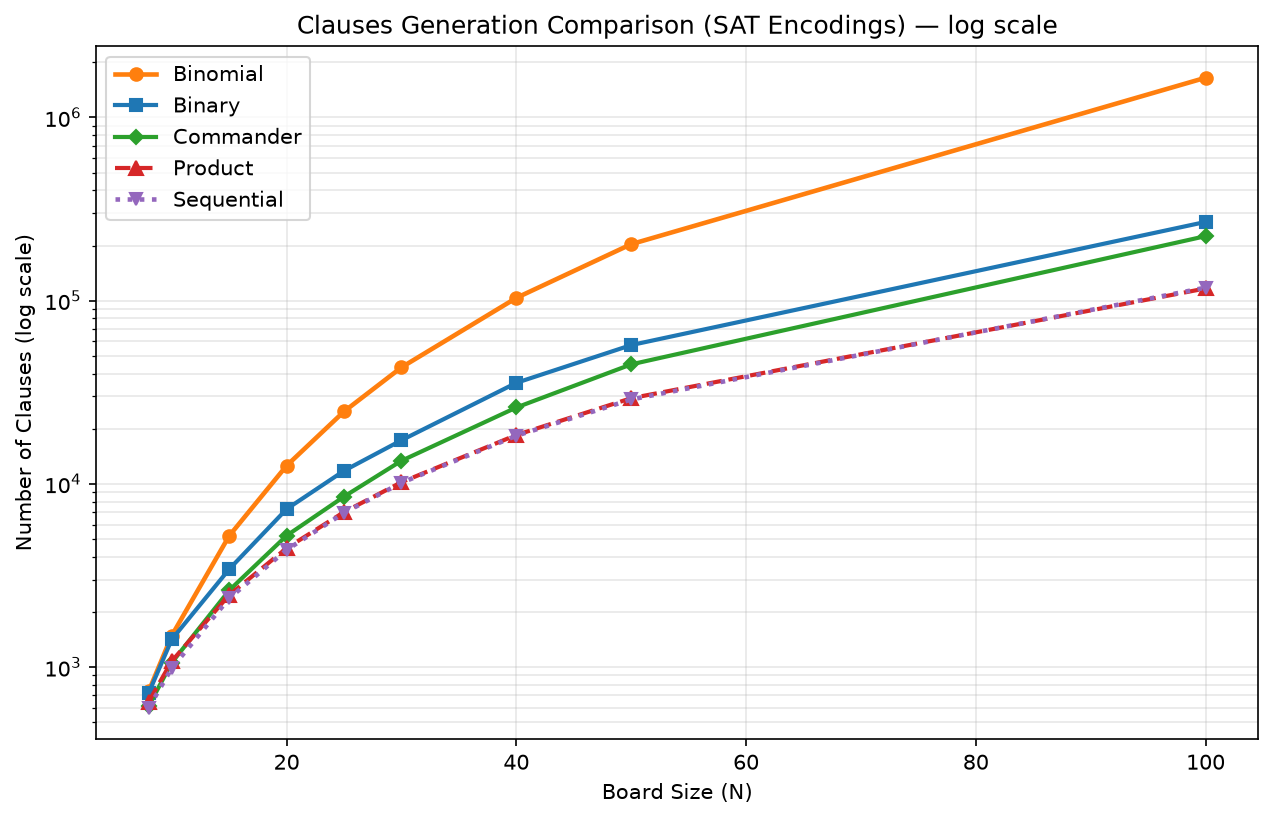
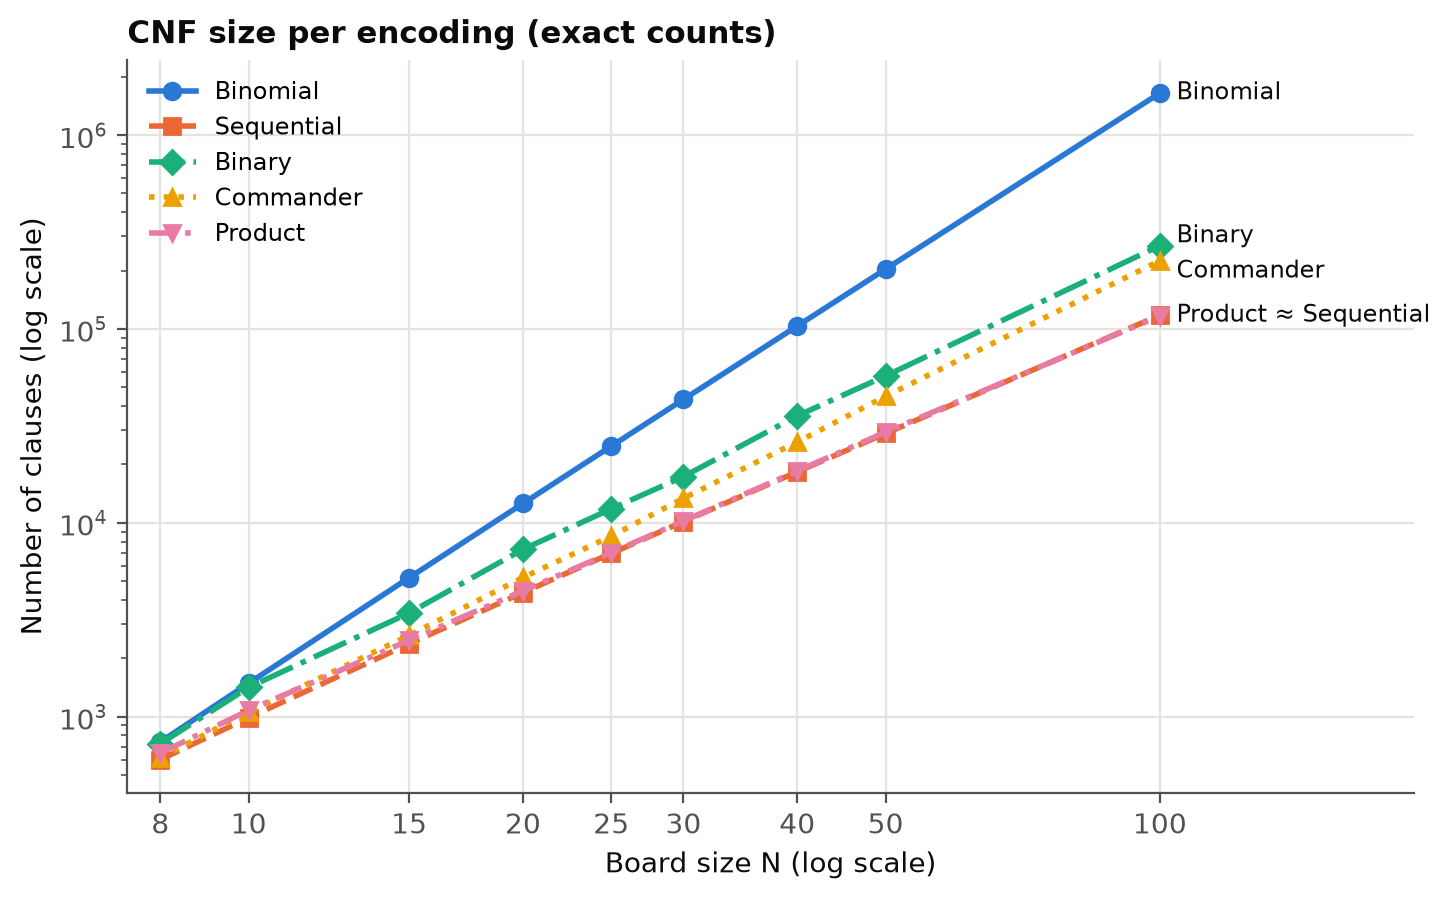
feat(charts): regenerate figures from CSV with per-method timeout markers and add ordering-sensitivity chart

diff --git a/src/plot_charts.py b/src/plot_charts.py
@@ -1,0 +1,208 @@
+import logging
+import os
+import sys
+
+import matplotlib
+matplotlib.use('Agg')
+import matplotlib.pyplot as plt
+import pandas as pd
+from matplotlib.lines import Line2D
+from matplotlib.ticker import FixedLocator, NullFormatter, NullLocator
+
+sys.path.insert(0, os.path.dirname(os.path.abspath(__file__)))
+from encoder import NQueensEncoder
+
+sys.stdout.reconfigure(encoding='utf-8')
+logging.getLogger('matplotlib.font_manager').setLevel(logging.ERROR)
+
+PROJECT_ROOT = os.path.dirname(os.path.dirname(os.path.abspath(__file__)))
+RESULTS_DIR = os.path.join(PROJECT_ROOT, 'results')
+
+RUNTIME_FILES = ['sat_vs_cp_benchmark.csv', 'benchmark_large_N.csv',
+                 'benchmark_large_N_50.csv', 'benchmark_extra_large_N.csv']
+SIZES = [8, 10, 15, 20, 25, 30, 40, 50, 100, 200]
+
+ENC_STYLE = {
+    'Binomial':   dict(color='#2a78d6', marker='o', ls='-'),
+    'Sequential': dict(color='#eb6834', marker='s', ls='--'),
+    'Binary':     dict(color='#1baf7a', marker='D', ls='-.'),
+    'Commander':  dict(color='#eda100', marker='^', ls=':'),
+    'Product':    dict(color='#e87ba4', marker='v', ls=(0, (5, 1.5, 1, 1.5, 1, 1.5))),
+}
+SOLVER_STYLE = {
+    'CP-SAT':     dict(color='#2a78d6', marker='o', ls='-'),
+    'CPLEX-CP':   dict(color='#eb6834', marker='s', ls='--'),
+    'CPLEX-MIP':  dict(color='#1baf7a', marker='D', ls='-.'),
+    'Gurobi-MIP': dict(color='#eda100', marker='^', ls=':'),
+}
+INK, INK_2, GRID = '#0b0b0b', '#52514e', '#e4e3df'
+
+plt.rcParams.update({
+    'font.size': 10, 'axes.edgecolor': INK_2, 'axes.labelcolor': INK, 'xtick.color': INK_2,
+    'ytick.color': INK_2, 'axes.titlesize': 11, 'axes.titleweight': 'bold',
+    'figure.facecolor': 'white', 'axes.facecolor': 'white', 'legend.frameon': False,
+})
+
+
+def _style_axes(ax, xticks=None):
+    ax.grid(True, which='major', color=GRID, lw=0.8)
+    ax.set_axisbelow(True)
+    for side in ('top', 'right'):
+        ax.spines[side].set_visible(False)
+    if xticks is not None:
+        ax.set_xscale('log')
+        ax.xaxis.set_major_locator(FixedLocator(xticks))
+        ax.xaxis.set_minor_locator(NullLocator())
+        ax.xaxis.set_minor_formatter(NullFormatter())
+        ax.set_xticklabels([str(x) for x in xticks])
+
+
+def load_runtime():
+    frames = []
+    for name in RUNTIME_FILES:
+        path = os.path.join(RESULTS_DIR, name)
+        if os.path.exists(path):
+            frames.append(pd.read_csv(path))
+    df = pd.concat(frames, ignore_index=True)
+    df['Error'] = df['Error'].fillna('').astype(str)
+    df['Is_SAT'] = df['Is_SAT'].astype(str).str.lower() == 'true'
+    df['Algorithm'] = df['Algorithm'].replace({'Gurobi-mip': 'Gurobi-MIP', 'gurobi-mip': 'Gurobi-MIP'})
+    return df.drop_duplicates(subset=['Board_Size', 'Algorithm'], keep='last')
+
+
+def plot_runtime(df):
+    fig, axes = plt.subplots(1, 2, figsize=(11, 4.6), sharey=True)
+    panels = [(axes[0], ENC_STYLE, 'SAT encodings (Glucose3, original variable order)'),
+              (axes[1], SOLVER_STYLE, 'CP and MIP solvers')]
+    for ax, styles, title in panels:
+        xmax = 2
+        timeouts = df[df['Algorithm'].isin(styles) & (df['Error'].str.upper() == 'TIMEOUT')]
+        for alg, st in styles.items():
+            sub = df[df['Algorithm'] == alg].sort_values('Board_Size')
+            ok = sub[(sub['Error'] == '') & sub['Is_SAT']]
+            if not ok.empty:
+                y = ok['Solve_Time(s)']
+                yerr = [y - ok['Solve_Min(s)'], ok['Solve_Max(s)'] - y]
+                ax.errorbar(ok['Board_Size'], y, yerr=yerr, color=st['color'], ls=st['ls'],
+                            marker=st['marker'], ms=6, lw=2, capsize=2.5, elinewidth=1,
+                            label=alg, zorder=3)
+                xmax = max(xmax, ok['Board_Size'].max())
+        for n, grp in timeouts.groupby('Board_Size'):
+            order = [a for a in styles if a in set(grp['Algorithm'])]
+            for j, alg in enumerate(order):
+                st = styles[alg]
+                row = grp[grp['Algorithm'] == alg].iloc[0]
+                shift = 1 + 0.045 * (j - (len(order) - 1) / 2)
+                ax.scatter([n * shift], [row['Solve_Time(s)']], marker=st['marker'], s=55,
+                           facecolors='white', edgecolors=st['color'], linewidths=1.8, zorder=4)
+            xmax = max(xmax, n)
+        ticks = [n for n in SIZES if n <= xmax]
+        _style_axes(ax, ticks)
+        ax.set_yscale('log')
+        ax.set_title(title, loc='left', color=INK)
+        ax.set_xlabel('Board size N (log scale)')
+    axes[0].set_ylabel('Solve time (s, log scale)')
+
+    for ax, styles in ((axes[0], ENC_STYLE), (axes[1], SOLVER_STYLE)):
+        handles, labels = ax.get_legend_handles_labels()
+        handles.append(Line2D([], [], ls='', marker='o', mfc='white', mec=INK_2, mew=1.6, ms=7))
+        labels.append('timed out (true time ≥ limit)')
+        ax.legend(handles, labels, loc='upper left', fontsize=8.5)
+    fig.tight_layout()
+    out = os.path.join(RESULTS_DIR, 'chart_runtime_comparison.png')
+    fig.savefig(out, dpi=200, bbox_inches='tight')
+    plt.close(fig)
+    return out
+
+
+def plot_clauses():
+    sizes = [n for n in SIZES if n <= 100]
+    counts = {enc: [len(NQueensEncoder(n).generate_clauses(enc.lower())[0]) for n in sizes]
+              for enc in ENC_STYLE}
+    fig, ax = plt.subplots(figsize=(7.5, 4.6))
+    for enc, st in ENC_STYLE.items():
+        ax.plot(sizes, counts[enc], color=st['color'], ls=st['ls'], marker=st['marker'],
+                ms=6, lw=2, label=enc, zorder=3)
+    _style_axes(ax, sizes)
+    ax.set_yscale('log')
+    ax.set_xlabel('Board size N (log scale)')
+    ax.set_ylabel('Number of clauses (log scale)')
+    ax.set_title('CNF size per encoding (exact counts)', loc='left', color=INK)
+    last = {enc: counts[enc][-1] for enc in ENC_STYLE}
+    labels = [('Binomial', last['Binomial']), ('Binary', last['Binary']),
+              ('Commander', last['Commander']),
+              ('Product ≈ Sequential', (last['Product'] * last['Sequential']) ** 0.5)]
+    nudge = {'Binary': 1.12, 'Commander': 0.88}
+    for text, y in labels:
+        ax.annotate(text, (sizes[-1], y * nudge.get(text, 1.0)), xytext=(6, 0),
+                    textcoords='offset points', va='center', fontsize=8.5, color=INK)
+    ax.set_xlim(sizes[0] * 0.92, sizes[-1] * 1.9)
+    ax.legend(loc='upper left', fontsize=8.5)
+    fig.tight_layout()
+    out = os.path.join(RESULTS_DIR, 'chart_clauses_comparison.png')
+    fig.savefig(out, dpi=200, bbox_inches='tight')
+    plt.close(fig)
+    return out
+
+
+def plot_ordering():
+    path = os.path.join(RESULTS_DIR, 'robustness_shuffle.csv')
+    if not os.path.exists(path):
+        return None
+    df = pd.read_csv(path)
+    sizes = sorted(df['Board_Size'].unique())
+    fig, axes = plt.subplots(1, len(sizes), figsize=(3.7 * len(sizes), 4.4), sharey=True, squeeze=False)
+    encs = list(ENC_STYLE)
+    for ax, n in zip(axes[0], sizes):
+        sub = df[df['Board_Size'] == n]
+        for i, enc in enumerate(encs):
+            st = ENC_STYLE[enc]
+            e = sub[sub['Encoding'] == enc].sort_values('Seed')
+            if e.empty:
+                continue
+            done = e[e['Status'] == 'SAT']
+            to = e[(e['Status'] == 'TIMEOUT') & (e['Seed'] != 0)]
+            shuf = done[done['Seed'] != 0]
+            jitter = [(j % 5 - 2) * 0.07 for j in range(len(shuf))]
+            ax.scatter([i + d for d in jitter], shuf['Solve_Time(s)'], s=22, color=st['color'],
+                       alpha=0.85, edgecolors='white', linewidths=0.6, zorder=3)
+            if not to.empty:
+                ax.scatter([i + 0.25] * len(to), to['Solve_Time(s)'], s=40, marker='^',
+                           facecolors='white', edgecolors=st['color'], linewidths=1.6, zorder=4)
+                ax.annotate(f'{len(to)}×', (i + 0.25, to['Solve_Time(s)'].iloc[0]), xytext=(5, 4),
+                            textcoords='offset points', fontsize=7.5, color=INK_2)
+            times = e['Solve_Time(s)'].where(e['Status'] == 'SAT', float('inf'))
+            med = times.median()
+            if med != float('inf'):
+                ax.hlines(med, i - 0.3, i + 0.3, color=INK, lw=1.6, zorder=5)
+            orig = e[e['Seed'] == 0].iloc[0]
+            ax.scatter([i - 0.25], [orig['Solve_Time(s)']], marker='X', s=70, color=INK,
+                       facecolors=INK if orig['Status'] == 'SAT' else 'white', zorder=6)
+        ax.set_xticks(range(len(encs)))
+        ax.set_xticklabels(encs, rotation=35, ha='right')
+        ax.set_yscale('log')
+        _style_axes(ax)
+        ax.grid(False, axis='x')
+        ax.set_title(f'N = {n}', loc='left', color=INK)
+    axes[0][0].set_ylabel('Solve time (s, log scale)')
+    handles = [Line2D([], [], ls='', marker='X', color=INK, ms=8, label='original order (seed 0; hollow = timed out)'),
+               Line2D([], [], ls='', marker='o', color=INK_2, ms=5, label='permuted CNF (seeds 1–9)'),
+               Line2D([], [], color=INK, lw=1.6, label='median of all 10 runs'),
+               Line2D([], [], ls='', marker='^', mfc='white', mec=INK_2, mew=1.5, ms=7,
+                      label='permuted runs timed out (≥ 60 s), with count')]
+    fig.legend(handles=handles, loc='upper center', ncol=4, fontsize=8.5, bbox_to_anchor=(0.5, 1.06))
+    fig.tight_layout()
+    out = os.path.join(RESULTS_DIR, 'chart_ordering_sensitivity.png')
+    fig.savefig(out, dpi=200, bbox_inches='tight')
+    plt.close(fig)
+    return out
+
+
+def main():
+    for out in (plot_runtime(load_runtime()), plot_clauses(), plot_ordering()):
+        if out:
+            print('=> ' + out)
+
+
+if __name__ == '__main__':
+    main()

diff --git a/src/benchmark.py b/src/benchmark.py
@@ -4,10 +4,6 @@ import os
 import statistics
 import sys
 import time
-import matplotlib
-matplotlib.use('Agg')
-import matplotlib.pyplot as plt
-import pandas as pd
 from encoder import NQueensEncoder
 from pysat_encoder import PySatNQueensEncoder
 from solver import SATSolverWrapper
@@ -82,6 +78,7 @@ def benchmark_sat(n, enc_name, solver_name, repeats, timeout_sec=100.0):
     valid = None
     encoder = None
     solver = None
+    timed_out = False
     for _ in range(repeats):
         start_gen = time.perf_counter()
         if use_pysat:
@@ -95,21 +92,19 @@ def benchmark_sat(n, enc_name, solver_name, repeats, timeout_sec=100.0):
         solver = SATSolverWrapper(clauses)
         is_sat, solve_time = solver.solve(effective_solver, time_limit_sec=timeout_sec)
         solve_times.append(solve_time)
+        timed_out = solver.timed_out
         if not is_sat:
             break
     if is_sat and encoder is not None and solver is not None:
         valid = encoder.verify_solution(solver.get_model(), n)
 
     solve_stats = _summarize(solve_times)
-    error = ""
-    if is_sat is False and solve_times and solve_times[-1] >= timeout_sec:
-        error = "TIMEOUT"
+    error = "TIMEOUT" if timed_out else ""
     return (num_vars, num_clauses,
             statistics.mean(gen_times), solve_stats,
             is_sat, valid, error)
 
 def _summarize(times):
-    """Trả về (mean, std, min, max, count) cho danh sách thời gian."""
     if not times:
         return (0.0, 0.0, 0.0, 0.0, 0)
     mean = statistics.mean(times)
@@ -148,8 +143,6 @@ def run_benchmark(args):
                 else:
                     alg_label = enc_name.capitalize()
 
-                # Phân biệt chế độ first-solution với chế độ tối ưu mặc định
-                # ngay trong nhãn thuật toán để hai chế độ có thể chung file CSV.
                 if args.first_solution and enc_name in ["cp-sat", "cplex-mip", "cplex-cp", "gurobi-mip"]:
                     alg_label = alg_label + " (first-sol)"
 
@@ -217,108 +210,9 @@ def run_benchmark(args):
     plot_charts([] if is_cross_solver else results)
 
 def plot_charts(results):
-    os.makedirs(RESULTS_DIR, exist_ok=True)
-    dfs = []
-    if results:
-        dfs.append(pd.DataFrame(results))
+    import plot_charts as charts
+    charts.main()
 
-    for fname in ['sat_vs_cp_benchmark.csv', 'benchmark_large_N.csv', 'benchmark_large_N_50.csv',
-                  'benchmark_extra_large_N.csv']:
-        path = os.path.join(RESULTS_DIR, fname)
-        if os.path.exists(path):
-            try:
-                df_part = pd.read_csv(path)
-                df_part.rename(columns={'Board_Size': 'N', 'Runtime(s)': 'Time'}, inplace=True)
-                dfs.append(df_part)
-            except Exception:
-                pass
-
-    if not dfs:
-        print("=> Không có dữ liệu để vẽ biểu đồ.")
-        return
-
-    df_all = pd.concat(dfs, ignore_index=True)
-    df_all['Error'] = df_all['Error'].fillna('')
-    df_all['Algorithm'] = df_all['Algorithm'].replace({'Gurobi-mip': 'Gurobi-MIP', 'gurobi-mip': 'Gurobi-MIP'})
-    if 'Solve_Std(s)' not in df_all.columns:
-        df_all['Solve_Std(s)'] = 0.0
-    df_all['Solve_Std(s)'] = pd.to_numeric(df_all['Solve_Std(s)'], errors='coerce').fillna(0.0)
-    df_all['Solve_Time(s)'] = pd.to_numeric(df_all['Solve_Time(s)'], errors='coerce')
-
-    is_sat_col = df_all.get('Is_SAT', df_all.get('Is_Sat'))
-    if is_sat_col is not None:
-        sat_ok = is_sat_col.astype(str).str.strip().str.lower() == 'true'
-    else:
-        sat_ok = pd.Series(True, index=df_all.index)
-    df_clean = df_all[(df_all['Error'] == '') & sat_ok].drop_duplicates(
-        subset=['N', 'Algorithm'], keep='last')
-    # Các mốc bị timeout (Error == 'TIMEOUT') để đánh dấu điểm gãy trên biểu đồ.
-    is_timeout = df_all['Error'].astype(str).str.upper() == 'TIMEOUT'
-    df_timeout = df_all[is_timeout].drop_duplicates(
-        subset=['N', 'Algorithm'], keep='last')
-
-    if df_clean.empty:
-        print("=> Toàn bộ kết quả đều lỗi, bỏ qua bước vẽ biểu đồ.")
-        return
-
-    plt.figure(figsize=(10, 6))
-    for alg in sorted(df_clean['Algorithm'].unique()):
-        subset = df_clean[df_clean['Algorithm'] == alg].sort_values('N')
-        # Tránh thanh sai số bằng 0 tuyệt đối trên thang log (gây lỗi vẽ):
-        # dùng độ lệch chuẩn nhưng kẹp tối thiểu ở một giá trị dương nhỏ.
-        yerr = subset['Solve_Std(s)'].clip(lower=1e-6)
-        plt.errorbar(subset['N'], subset['Solve_Time(s)'], yerr=yerr,
-                     marker='o', label=alg, linewidth=2, capsize=3)
-    # Đánh dấu các điểm timeout bằng dấu ✕ đỏ, đặt TẠI ĐÚNG giá trị timeout
-    # của từng mốc (N=40/50 dùng 90s; N=100/200 dùng 40s) để phản ánh trung thực
-    # chi phí thực tế trước khi solver bị ngắt. Nhãn chữ chi tiết đã có trong các
-    # bảng kết quả của báo cáo, nên ở đây chỉ cần một ký hiệu chung.
-    if not df_timeout.empty:
-        plt.scatter(df_timeout['N'], df_timeout['Solve_Time(s)'], marker='x', s=110,
-                    zorder=5, color='red', linewidths=1.8,
-                    label='timeout (no solution)')
-    plt.yscale('log')
-    plt.title('Solve Time Comparison (SAT vs CP vs MIP) — log scale, error bars = std')
-    plt.xlabel('Board Size (N)')
-    plt.ylabel('Solve time (seconds, log scale)')
-    plt.legend()
-    plt.grid(True, which='both', alpha=0.3)
-    plt.savefig(os.path.join(RESULTS_DIR, 'chart_runtime_comparison.png'), dpi=150, bbox_inches='tight')
-    plt.close()
-
-    sat_encs = ['Binomial', 'Binary', 'Commander', 'Product', 'Sequential']
-    df_sat = df_all[df_all['Algorithm'].isin(sat_encs) & (pd.to_numeric(df_all['Clauses'], errors='coerce') > 0)].copy()
-    df_sat['Clauses'] = pd.to_numeric(df_sat['Clauses'], errors='coerce')
-    # Giới hạn N <= 100 để cả 5 encoding đều có đầy đủ mốc đối chuẩn đồng bộ
-    df_sat = df_sat[df_sat['N'] <= 100].drop_duplicates(subset=['N', 'Algorithm'], keep='first')
-    if not df_sat.empty:
-        # Dùng biểu đồ đơn thang log (tương tự biểu đồ thời gian giải ở trên)
-        # để phân biệt rõ cả 5 encoding từ N=8 đến N=100 mà không bị bẹp xuống đáy.
-        style_map = {
-            'Binomial':   {'color': '#ff7f0e', 'marker': 'o', 'linestyle': '-',  'lw': 2.2, 'ms': 6},
-            'Binary':     {'color': '#1f77b4', 'marker': 's', 'linestyle': '-',  'lw': 2.0, 'ms': 6},
-            'Commander':  {'color': '#2ca02c', 'marker': 'D', 'linestyle': '-',  'lw': 2.0, 'ms': 5},
-            'Product':    {'color': '#d62728', 'marker': '^', 'linestyle': '--', 'lw': 2.0, 'ms': 7},
-            'Sequential': {'color': '#9467bd', 'marker': 'v', 'linestyle': ':',  'lw': 2.2, 'ms': 6},
-        }
-        plt.figure(figsize=(10, 6))
-        for alg in ['Binomial', 'Binary', 'Commander', 'Product', 'Sequential']:
-            if alg not in df_sat['Algorithm'].values:
-                continue
-            subset = df_sat[df_sat['Algorithm'] == alg].sort_values('N')
-            st = style_map.get(alg, {'color': None, 'marker': 's', 'linestyle': '-', 'lw': 2.0, 'ms': 6})
-            plt.plot(subset['N'], subset['Clauses'], label=alg, color=st['color'],
-                     marker=st['marker'], linestyle=st['linestyle'], linewidth=st['lw'], markersize=st['ms'])
-        plt.yscale('log')
-        plt.title('Clauses Generation Comparison (SAT Encodings) — log scale')
-        plt.xlabel('Board Size (N)')
-        plt.ylabel('Number of Clauses (log scale)')
-        plt.legend()
-        plt.grid(True, which='both', alpha=0.3)
-        plt.savefig(os.path.join(RESULTS_DIR, 'chart_clauses_comparison.png'), dpi=150, bbox_inches='tight')
-        plt.close()
-
-    print("=> Đã sinh thành công biểu đồ PNG tại thư mục results/")
 
 if __name__ == "__main__":
     run_benchmark(parse_args())
